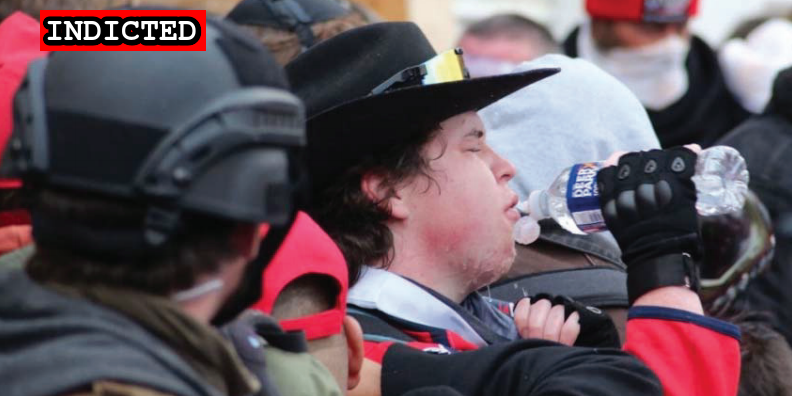
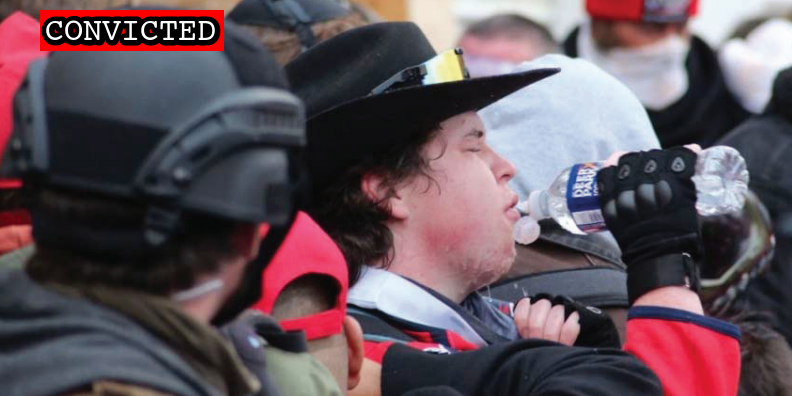
Latest import

Changed region(s): [[0.0303, 0.0303, 0.303, 0.1515]]

diff --git a/docs/_suspects/matthew-miller.md b/docs/_suspects/matthew-miller.md
@@ -4,15 +4,15 @@ lastName: Miller
 hashtag: BabyMachoMan
 aka:
 residence: Maryland
-status: Indicted
+status: Convicted
 date: 2021-01-25
 charged: 2021-01-25
 indicted: 2021-02-03
-convicted:
+convicted: 2022-02-09
 sentenced:
 dismissed:
 deceased:
-plea_hearing:
+plea_hearing: 2022-02-09
 sentencing:
 age: 22
 occupation:
@@ -34,9 +34,19 @@ published: true
 caseNumber: 1:21-cr-75
 videos:
 charges:
+  - code: 18 USC § 1512(c)(2)
+    title: Obstruction of Congress
+    url: https://www.law.cornell.edu/uscode/text/18/1512
+    felony: true
+  - code: 18 USC § 111(a)(1) and (b)
+    title: Assaulting, resisting, or impeding certain officers or employees (using a deadly or dangerous weapon)
+    url: https://www.law.cornell.edu/uscode/text/18/111
+    felony: true
 sentence:
 ---
+
 - [News Report](https://www.wbaltv.com/article/fbi-charge-matthew-miller-cooksville-us-capitol-riot/35312595)
-- [Statement of Facts](https://www.justice.gov/opa/page/file/1360201/download)
+- [Statement of Facts](https://www.justice.gov/usao-dc/case-multi-defendant/file/1470776/download)
 - [Complaint](https://www.justice.gov/opa/page/file/1360201/download)
 - [Indictment](https://www.justice.gov/usao-dc/case-multi-defendant/file/1461761/download)
+- [Plea Agreement](https://www.justice.gov/usao-dc/case-multi-defendant/file/1470771/download)

diff --git a/docs/_suspects/michael-timbrook.md b/docs/_suspects/michael-timbrook.md
@@ -4,15 +4,15 @@ lastName: Timbrook
 hashtag: MichaelTimbrook
 aka:
 residence: Tennessee
-status: Charged
+status: Convicted
 date: 2021-04-20
 charged: 2021-04-20
 indicted:
-convicted: 
+convicted: 2022-02-09
 sentenced:
 dismissed: 
 deceased:
-plea_hearing:
+plea_hearing: 2022-02-09
 sentencing:
 age: 56
 occupation:
@@ -34,9 +34,14 @@ published: true
 caseNumber: 1:21-cr-361
 videos:
 charges:
+- code: 18 USC § 5104(e)(2)(G)
+  title: Parading, demonstrating or picketing in a Capitol building
+  url: https://www.law.cornell.edu/uscode/text/40/5104
+  felony: false
 sentence:
 ---
 - [News Report](https://www.tennessean.com/story/news/local/2021/04/20/michael-timbrook-cookeville-charged-u-s-capitol-riots/7303194002/)
 - [Complaint](https://www.justice.gov/usao-dc/case-multi-defendant/file/1388351/download)
-- [Statement of Facts](https://www.justice.gov/usao-dc/case-multi-defendant/file/1388356/download)
+- [Statement of Facts](https://www.justice.gov/usao-dc/case-multi-defendant/file/1470786/download)
 - [Information](https://www.justice.gov/usao-dc/case-multi-defendant/file/1415206/download)
+- [Plea Agreement](https://www.justice.gov/usao-dc/case-multi-defendant/file/1470781/download)

diff --git a/docs/_suspects/edward-vallejo.md b/docs/_suspects/edward-vallejo.md
@@ -37,4 +37,4 @@ charges:
 sentence:
 ---
 - [News Report](https://www.azcentral.com/story/news/local/phoenix-breaking/2022/01/13/phoenix-man-edward-vallejo-charged-relation-jan-6-capitol-breach/6516426001/)
-- [Indictment](https://www.justice.gov/opa/press-release/file/1462481/download)
+- [Indictment](https://www.justice.gov/usao-dc/case-multi-defendant/file/1470551/download)
